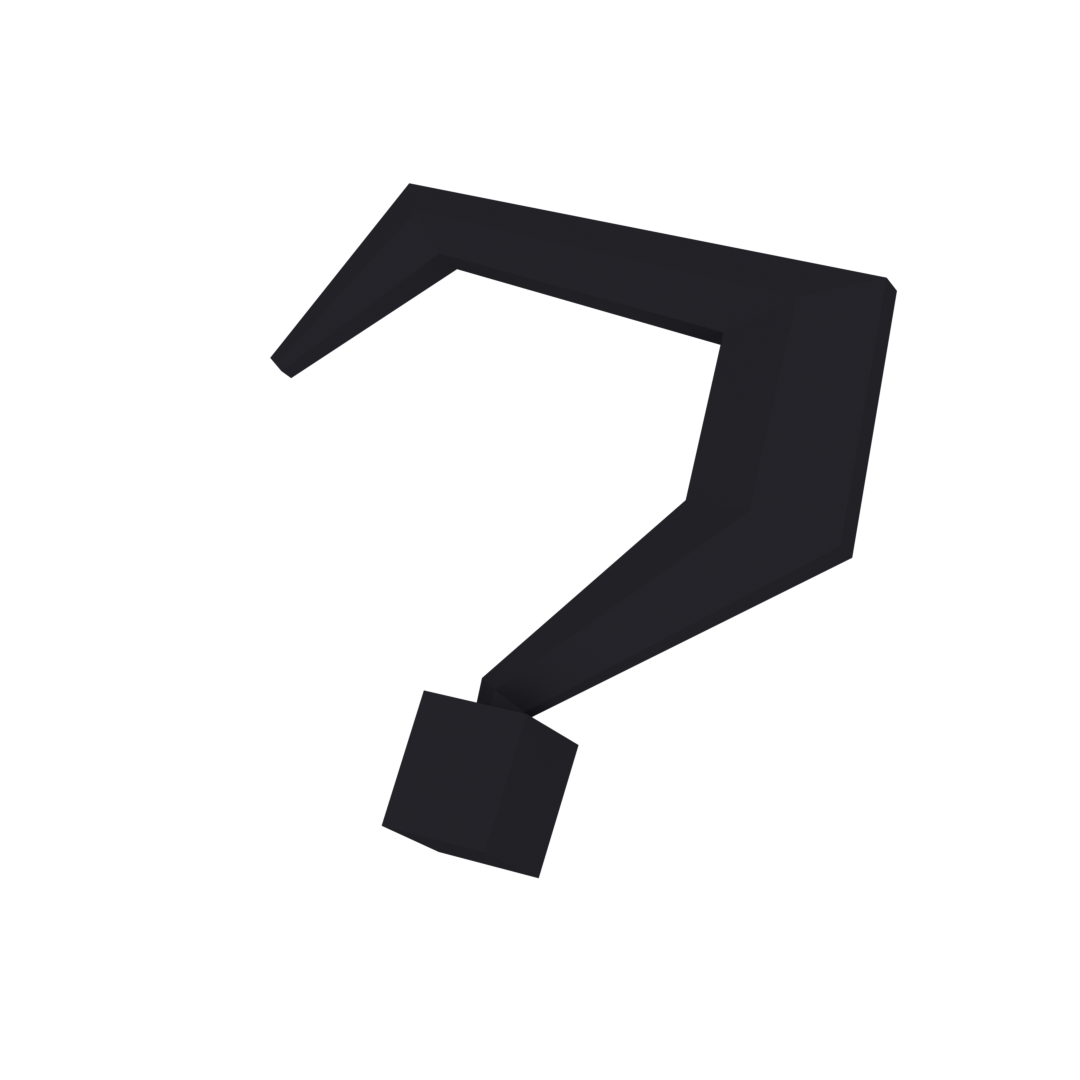
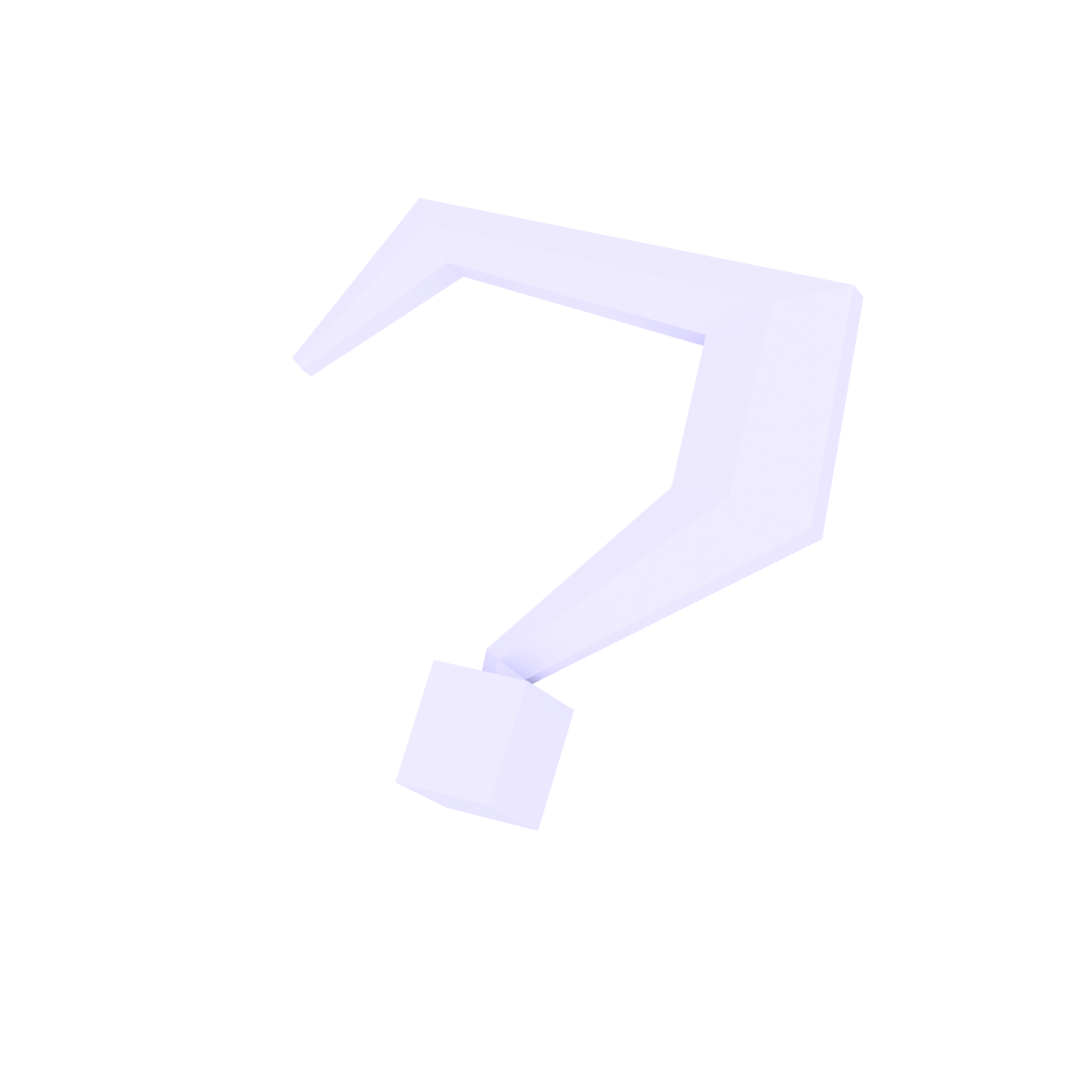
feat: new colors and textures

Changed region(s): [[0.2444, 0.1528, 0.825, 0.825]]

diff --git a/src/configs/index.js b/src/configs/index.js
@@ -18,18 +18,23 @@ const configs = {
             },
         },
         size: [1.4, 1.4, 1.4],
+        colors: {
+            orange: "#9C73FF",
+            noir: "#3C365A",
+        },
         body: {
             hat: {
                 shuffleMesh: true,
                 addColor: true,
+                refColor: true,
                 meshes: [
                     {
                         name: "Chapeau_01",
-                        color: ["#F86F43", "#1E1D22"],
+                        color: ["orange", "noir"],
                     },
                     {
                         name: "Chapeau_02",
-                        color: ["#F86F43", "#1E1D22"],
+                        color: ["orange", "noir"],
                     },
                 ],
             },
@@ -37,58 +42,61 @@ const configs = {
                 shuffleMesh: true,
                 alphaTexture: "barbeAlphaTexture",
                 addColor: false,
+                refColor: false,
                 meshes: [
                     {
                         name: "Barbe",
                         texture: "barbeBlancTexture",
-                        color: ["#F3E3DD"],
+                        color: ["blanc"],
                     },
                     {
                         name: "Barbe",
                         texture: "barbeJauneTexture",
-                        color: ["#FAA757"],
+                        color: ["jaune"],
                     },
                     {
                         name: "Barbe",
                         texture: "barbeOrangeTexture",
-                        color: ["#F86F43"],
+                        color: ["orange"],
                     },
                     {
                         name: "Barbe",
                         texture: "barbeVioletTexture",
-                        color: ["#3C365A"],
+                        color: ["violet"],
                     },
                 ],
             },
             barrel: {
                 shuffleMesh: true,
                 addColor: false,
+                refColor: false,
                 meshes: [
                     {
                         name: "Tonneau",
                         texture: "tonneauBlancTexture",
-                        color: ["#F3E3DD"],
+                        color: ["blanc"],
                     },
                     {
                         name: "Tonneau",
                         texture: "tonneauBleuTexture",
-                        color: ["#6B8CDB"],
+                        color: ["bleu"],
                     },
                     {
                         name: "Tonneau",
                         texture: "tonneauJauneTexture",
-                        color: ["#FAA757"],
+                        color: ["jaune"],
                     },
                     {
                         name: "Tonneau",
                         texture: "tonneauOrangeTexture",
-                        color: ["#F86F43"],
+                        color: ["orange"],
                     },
                 ],
             },
             weapon: {
                 shuffleMesh: true,
                 addColor: false,
+                refColor: false,
                 meshes: [
                     {
                         name: "Epee_01",
@@ -99,6 +107,7 @@ const configs = {
             belt: {
                 shuffleMesh: false,
                 addColor: false,
+                refColor: false,
                 meshes: [
                     {
                         name: "Cinture_bas",

diff --git a/src/webgl/World/Pirate/Pirate.js b/src/webgl/World/Pirate/Pirate.js
@@ -12,9 +12,7 @@ export default class Pirate {
         this._resources = experience.resources.items;
         this.charaResource = experience.resources.items.characterModel;
 
-        if (!body) {
-            this.body = this._generateBody();
-        } else this.body = body;
+        this.body = body;
 
         if (this.body) {
             this._initModel();
@@ -30,6 +28,7 @@ export default class Pirate {
                 alphaTexture: value.alphaTexture,
                 shuffleMesh: value.shuffleMesh,
                 addColor: value.addColor,
+                refColor: value.refColor,
                 meshes: value.meshes,
                 mesh: value.shuffleMesh
                     ? sample(
@@ -57,6 +56,7 @@ export default class Pirate {
         this.mesh.children[0].traverse((child) => {
             if (child instanceof Mesh) {
                 child.layers.set(1);
+
                 const bodyPart = Object.values(this.body).find(({ meshes }) =>
                     Object.values(meshes)
                         .map(({ name }) => name)
@@ -71,7 +71,9 @@ export default class Pirate {
 
                     child.material.map = this._resources[bodyPart.mesh.texture];
                     if (bodyPart.addColor) {
-                        child.material.color = new Color(bodyPart.mesh.color).convertSRGBToLinear();
+                        child.material.color = new Color(
+                            bodyPart.refColor ? configs.character.colors[bodyPart.mesh.color] : bodyPart.mesh.color
+                        ).convertSRGBToLinear();
                     }
 
                     if (bodyPart.alphaTexture) {
@@ -85,7 +87,7 @@ export default class Pirate {
                     }
                 }
 
-                if (child.name === "Tonneau") rangeColor = bodyPart.mesh.color;
+                if (child.name === "Tonneau") rangeColor = configs.character.colors[bodyPart.mesh.color];
 
                 if (child.name === "Barbe")
                     this.mesh.children[0].getObjectByName("Sourcil").material = child.material.clone();

diff --git a/src/webgl/World/SteeringBots.js b/src/webgl/World/SteeringBots.js
@@ -144,6 +144,7 @@ export default class SteeringBots extends component() {
                 alphaTexture: value.alphaTexture,
                 shuffleMesh: value.shuffleMesh,
                 addColor: value.addColor,
+                refColor: value.refColor,
                 meshes: value.meshes,
                 mesh: value.shuffleMesh
                     ? sample(
@@ -212,15 +213,13 @@ export default class SteeringBots extends component() {
                         entity.lookWhereGoing(true);
                         entity.bounce(this.boundaries[j]);
                         entity.update();
-                        entity.rotation.set(0, entity.rotation.y, 0)
+                        entity.rotation.set(0, entity.rotation.y, 0);
                     }
 
                     if (velocity === 0) {
-                        if (!animation.isCurrent("idle"))
-                            animation.play("idle");
+                        if (!animation.isCurrent("idle")) animation.play("idle");
                     } else {
-                        if (!animation.isCurrent("walk"))
-                            animation.play("walk");
+                        if (!animation.isCurrent("walk")) animation.play("walk");
                         if (velocity >= this._params.steerMaxSpeed / 1.6)
                             animation.actions.current.setEffectiveTimeScale(this._params.runningSpeed);
                         else animation.actions.current.setEffectiveTimeScale(confAnimation.active.walkingTimeScale);

diff --git a/src/webgl/World/Pirate/PlayerPirate.js b/src/webgl/World/Pirate/PlayerPirate.js
@@ -194,7 +194,7 @@ export default class PlayerPirate extends component(Pirate) {
                 stalkersCount: mapToArray(this._players, true).filter((p) => p.target.id === this.id).length,
                 info: bodyData.map(({ tag, name, color, show }) => ({
                     tag,
-                    img: tag !== "weapon" ? `${name}_${color.replace("#", "")}` : name,
+                    img: tag !== "weapon" ? `${name}_${color}` : name,
                     show,
                 })),
             };
